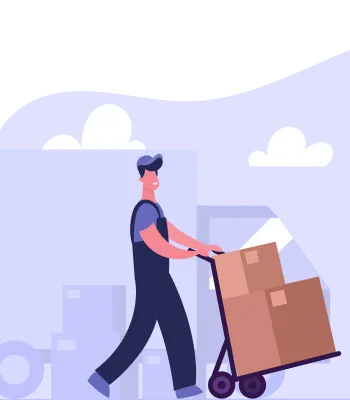
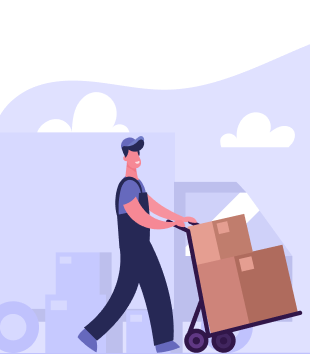
image quality upgrade

diff --git a/app/components/Home/AboutUsGrid.tsx b/app/components/Home/AboutUsGrid.tsx
@@ -18,7 +18,7 @@ export default function AboutUsGrid() {
                         src="/images/homepage/about-us/card-decoration.webp"
                         alt="about us card image"
                         className="absolute w-[36%] -top-[8%] -left-[11%]"
-                        
+                        quality={100}
                     />
                     <Image
                         width={382}
@@ -26,7 +26,7 @@ export default function AboutUsGrid() {
                         src="/images/homepage/about-us/about-us-card-1.webp"
                         alt="about us card image"
                         className="shadow-base"
-                        
+                        quality={100}
                     />
                 </div>
             </motion.div>
@@ -37,7 +37,7 @@ export default function AboutUsGrid() {
                     src="/images/homepage/about-us/about-us-card-2.webp"
                     alt="about us card image"
                     className="shadow-base lg:group-hover:translate-x-2 lg:group-hover:-translate-y-2 transition duration-300"
-                    
+                    quality={100}
                 />
             </motion.div>
             <motion.div variants={{show: {opacity: 1, y: 0}, hide: {opacity: 0, y:50}}} animate={isInView ? "show": "hide"} transition={{duration: .5, delay: .3, ease: 'easeInOut'}}>
@@ -47,7 +47,7 @@ export default function AboutUsGrid() {
                     src="/images/homepage/about-us/about-us-card-3.webp"
                     alt="about us card image"
                     className="shadow-base lg:group-hover:translate-x-2 lg:group-hover:translate-y-2 transition duration-300"
-                    
+                    quality={100}
                 />
             </motion.div>
     </div>

diff --git a/app/components/Home/ServicesGrid.tsx b/app/components/Home/ServicesGrid.tsx
@@ -21,7 +21,7 @@ export default function ServicesGrid() {
     }
 
   return (
-    <motion.div className="grid auto-rows-fr grid-cols-1 lg:grid-cols-2 gap-4 lg:gap-8" ref={ref} variants={list} animate={isInView ? "show": "hide"} transition={{duration: .5}}>
+    <motion.div className="grid auto-rows-fr grid-cols-1 lg:grid-cols-2 lg:grid-rows-2 gap-4 lg:gap-8" ref={ref} variants={list} animate={isInView ? "show": "hide"} transition={{duration: .5}}>
         <ServicesCard link="/services/local-moves" title='Local Moves' text1='Moving within the city? Our local moving services are designed to handle your move efficiently and safely.' text2='How We Help: Our team of expert movers is dedicated to providing you with fast and reliable local moving services. From packing to transport, we ensure your belongings arrive at your new home in perfect condition.' image='service-1'/>
         <ServicesCard link="/services/long-distance" title='Long-Distance Moves' text1='Moving across the state or to a new city? Trust us to handle your long-distance move with care and precision.' text2='How We Help: We specialize in cross-country moves with a focus on safety and timely delivery. Our long-distance services include full packing and secure transportation, so you can move with peace of mind.' image='service-2'/>
         <ServicesCard link="/services/office-moves" title='Office Moves' text1='Minimize downtime and get back to business quickly with our professional office moving services.' text2='How We Help: We work closely with your team to create a moving plan that suits your schedule. Our movers handle everything from packing office equipment to reassembling furniture, ensuring a seamless transition.' image='service-3'/>

diff --git a/app/components/Home/ServicesCard.tsx b/app/components/Home/ServicesCard.tsx
@@ -34,6 +34,7 @@ export default function ServicesCard({title, text1, text2, image, link}: Service
                 src={`/images/homepage/services/${image}.webp`}
                 alt="services image"
                 className="w-full lg:w-[45%] object-contain object-bottom"
+                unoptimized
                 
             />
             <div className='flex flex-col justify-between items-start lg:gap-6'>
@@ -41,7 +42,7 @@ export default function ServicesCard({title, text1, text2, image, link}: Service
                     <p className='text-dark text-[2rem] font-extrabold hidden lg:block group-hover/card:text-white transition duration-300 mb-6'>{title}</p>
                     <p className=' group-hover/card:text-white transition duration-300 lg:text-lg'>{text1} <br/><br/> {text2}</p>
                 </div>
-                <FindMoreButton link={link} light className='-mb-14 lg:mb-0 lg:mt-0'/>
+                <FindMoreButton link={link} light className='lg:mt-0'/>
             </div>
         </div>
     </motion.div>

diff --git a/app/components/FindMoreButton.tsx b/app/components/FindMoreButton.tsx
@@ -1,6 +1,7 @@
 import Image from 'next/image'
 import Link from 'next/link'
 import React from 'react'
+import linkIcon from '../../public/images/link-icon.svg';
 
 interface FindMoreButtonProps {
     className?: string,
@@ -13,9 +14,7 @@ export default function FindMoreButton({className, light = false, link}: FindMor
     <Link href={link} className={`flex justify-center items-center ${light ? "bg-gray hover:bg-dark" : "bg-dark hover:bg-opacity-70"} rounded-2xl gap-2 py-4 px-6 mt-6 group transition duration-200 w-fit ${className}`}>
         <p className={`font-base font-extrabold ${light ? "text-dark group-hover:text-white" : "text-white"} transition duration-200`}>Find More</p>
         <Image
-            width={24}
-            height={24}
-            src="/images/link-icon.svg"
+            src={linkIcon}
             alt="link icon"
             className={`size-6 transition duration-200 ${light ? "dark-filter group-hover:filter-none" : ""}`}
             

diff --git a/app/components/ReviewCard.tsx b/app/components/ReviewCard.tsx
@@ -65,11 +65,12 @@ export default function ReviewCard({index, currentSlide, date, text, name, posit
         </div>
         <div className="flex gap-3 items-end">
             <Image
-                width={564}
-                height={564}
+                width={48}
+                height={48}
                 src={`/images/homepage/reviews/${img}.webp`}
                 alt="user icon"
-                className="size-14 rounded-full"
+                className="size-12 rounded-full"
+                quality={100}
             />
             <div>
                 <p className='text-dark text-2xl font-extrabold'>{name}</p>

diff --git a/app/components/Home/Hero.tsx b/app/components/Home/Hero.tsx
@@ -15,6 +15,7 @@ export default function Hero() {
                         src="/images/homepage/home/hero-character.webp"
                         alt="young boy holding a box for moving"
                         className="px-16 w-full lg:w-auto lg:flex-1 -mt-6 lg:-mt-[8%] object-contain object-bottom min-w-0"
+                        priority
                     />
                     <HeroReviewCardGroup />
                 </div>
